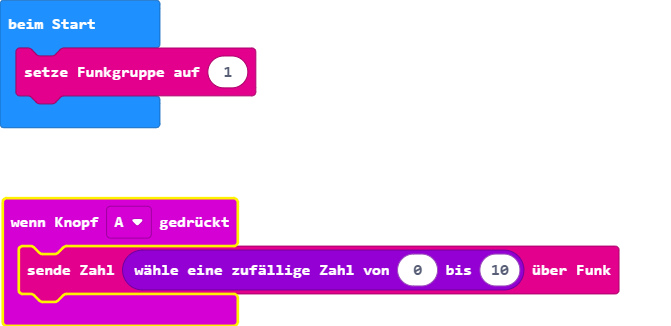
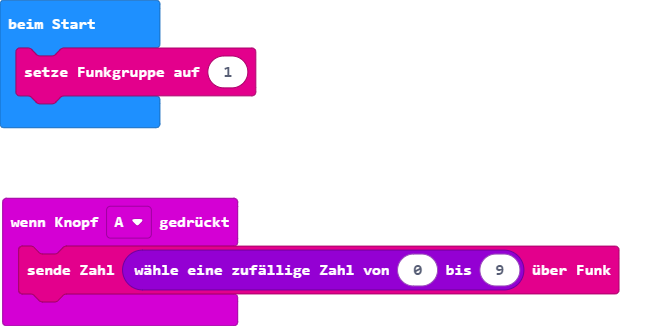
Aktualisiere main.blocks, main.ts

Changed region(s): [[0.0, 0.5828, 0.3577, 1.0], [0.7154, 0.7975, 0.775, 0.8589], [0.0596, 0.9202, 0.0894, 0.9509]]

diff --git a/main.ts b/main.ts
@@ -1,4 +1,4 @@
 input.onButtonPressed(Button.A, function () {
-    radio.sendNumber(Math.randomRange(0, 10))
+    radio.sendNumber(Math.randomRange(0, 9))
 })
 radio.setGroup(1)
